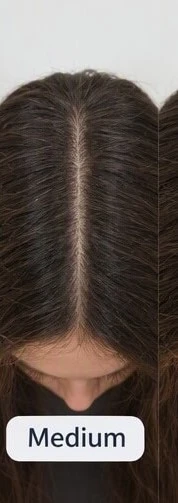
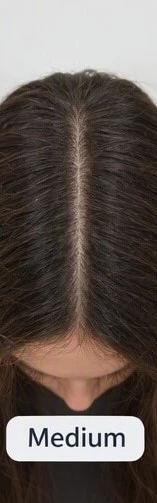
Added images to hair density

diff --git a/hair.html b/hair.html
@@ -138,6 +138,7 @@
                 <li>Your scalp is easily and widely seen when you part your hair in the middle.</li>
             </ul>
         </div>
+        <img src="fImages/lowden.webp"alt=" Low density hair" type="image/webp">
         </div>
         <div class="type">
         <div class="types">
@@ -146,6 +147,7 @@
                 <li>Your scalp is somewhat visible when you part your hair in the middle.</li>
             </ul>
         </div>
+        <img src="fImages/mediumden.webp"alt=" Medium density hair" type="image/webp">
         </div>
         <div class="type">
         <div class="types">
@@ -154,6 +156,7 @@
                 <li>Your scalp is barely visible or hidden when you part your hair in the middle.</li>
             </ul>
         </div>
+        <img src="fImages/highden.webp"alt=" High density hair" type="image/webp">
         </div>
         </div>
         <iframe
